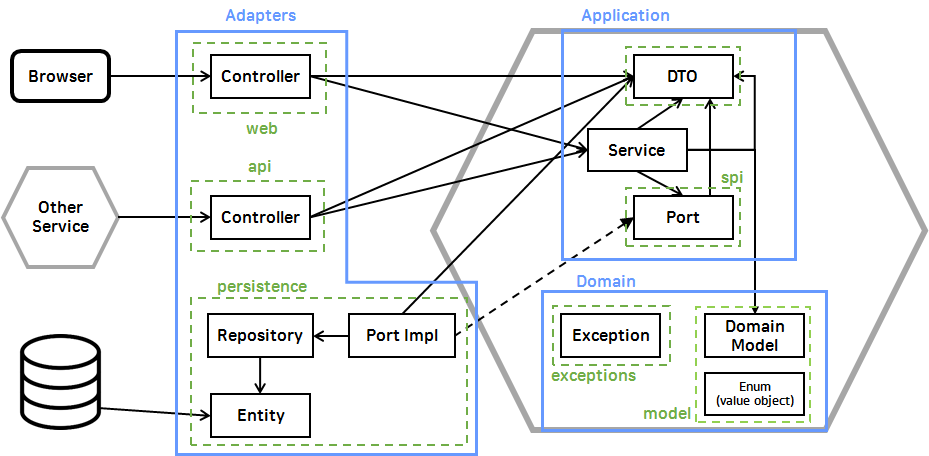
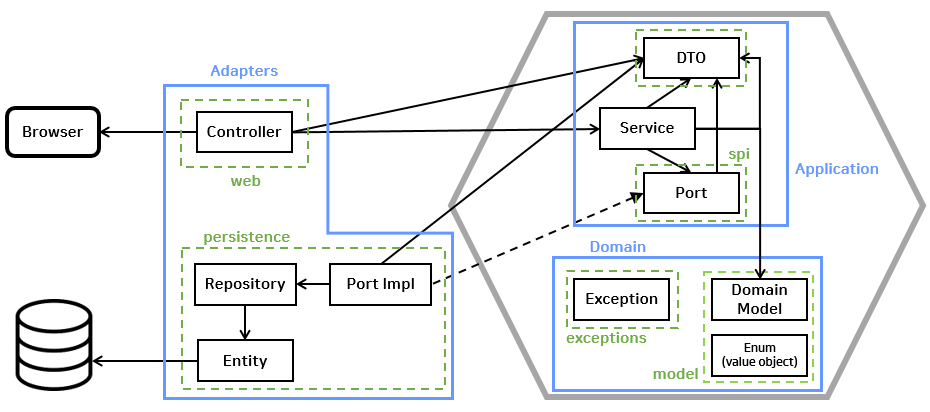
fix: readme

diff --git a/readme.md b/readme.md
@@ -1,6 +1,5 @@
 # CAUSW Backend
 
----
 <a href="https://spring.io">
   <img src="https://img.shields.io/badge/spring-v2.4.1-green">
 </a>
@@ -14,45 +13,45 @@
 ## Overview
 
 ---
-이 애플리케이션은 중앙대학교 소프트웨어학부 동문네트워크 커뮤니티 서비스의 Backend 서비스를 구동합니다.
+해당 애플리케이션은 중앙대학교 소프트웨어학부 동문네트워크 커뮤니티 서비스의 Backend 서비스를 구동합니다.
 
 서비스 이용 중 불편한 사항 혹은 문의사항이 있으신 경우 개발팀에 연락 부탁드리며, 서비스 개선을 위한 다양한 의견은 언제든 환영입니다.
 
 프로젝트에 참여하시고 싶으시다면, [Contributing Guide](CONTRIBUTING.md)를 참조하시어 issue 혹은 pull request를 생성해주세요!
 
-본 서비스에 많은 관심 부탁드립니다:)
+본 서비스에 많은 관심 부탁드립니다 :)
 
 ## Architecture
 
----
-이 애플리케이션의 아키텍쳐는 <a href="https://en.wikipedia.org/wiki/Hexagonal_architecture_(software)">Hexagonal Architecture</a>를
+해당 애플리케이션는 <a href="https://en.wikipedia.org/wiki/Hexagonal_architecture_(software)">Hexagonal Architecture</a>를
 따른다.
 
 ### Hexagonal Architecture
 
-Layered Architecture의 대안으로 인터페이스나 infrastructure의 변경에 영향을 받지 않는 비즈니스 로직을 만들고 이를 견고하게 관리하기 위한 구조, Ports and Adapters
-Architerture 라고 불리기도 한다.
+- 계층 구조(Layered Architecture) 의 대안으로써 사용자 인터페이스나 기반 요소(Infrastructure) 의 변경에 영향을 받지 않는 핵심 코드, 즉 비즈니스 로직을 만들고 이를 견고하게 관리하기 위한 구조 
+- Ports and Adapters Architecture 라고 불리기도 함
 
 <p align="center">
-    <img src="./img/project_structure.png" width="600" height="500"/>
+    <img src="./img/project_structure.png" width="600" height="266"/>
 </p>
 
-> 육각형의 핵심은 인터페이스를 이용해 비즈니스 로직과 모든 것을 분리하고자 하는 것.
+> 육각형 구조의 핵심은 비즈니스 로직이 다른 기술 영역의 영향을 받게 하지 않는 것
 
 - **Adapters**
-    - 외부 영역과 내부 영역을 이어주는 일을 책임
-    - `web` : 웹 클라이언트와 내부 영역을 이어주는 일을 책임
-    - `api` : 외부 서비스와 내부 영역을 이어주는 일을 책임
-    - `persistence` : 데이터베이스 등 데이터에 영속성을 부여해주는 일을 책임
+    - 외부 영역과 내부 영역을 이어주는 어댑터
+    - `web` : 웹 클라이언트에서의 요청을 처리
+    - `persistence` : 데이터베이스 접근하여 데이터 처리
+  
+
 - **Application**
-    - 소프트웨어가 수행할 작업을 정의하고 표현력 있는 도메인 객체가 문제를 해결
-    - 여기에는 업무 규칙이나 지식이 포함되지 않으며, 오직 작업을 조정하고 아래에 위치한 계층에 포함된 도메인 객체의 협력자에게 작업을 위임
-    - `spi` : port 인터페이스를 관리, `port` 는 비즈니스 로직이 자신의 외부 영역과 상호 작용하는 방법이 정의된 작업
+    - 애플리케이션이 수행할 작업을 정의하고 표현력 있는 도메인 객체가 문제를 해결
+    - 여기에는 도메인 로직이 없고, 오직 도메인의 여러 로직을 조합
+    - `spi` : service provider interface (port interface) 를 관리, `port` 는 영속화 계층이 자신의 외부 영역과 상호 작용하는 방법을 정의
+  
+
 - **Domain**
-    - 업무 개념과 업무 상황에 관한 정보, 비즈니스 로직을 표현하는 일을 책임
+    - 도메인에 관한 정보, 비즈니스 로직을 표현하는 일을 책임
 
 ## Contact
-
----
 
 **Email** : <a href="mailto:causwdev2021@gmail.com">causwdev2021@gmail.com</a>
